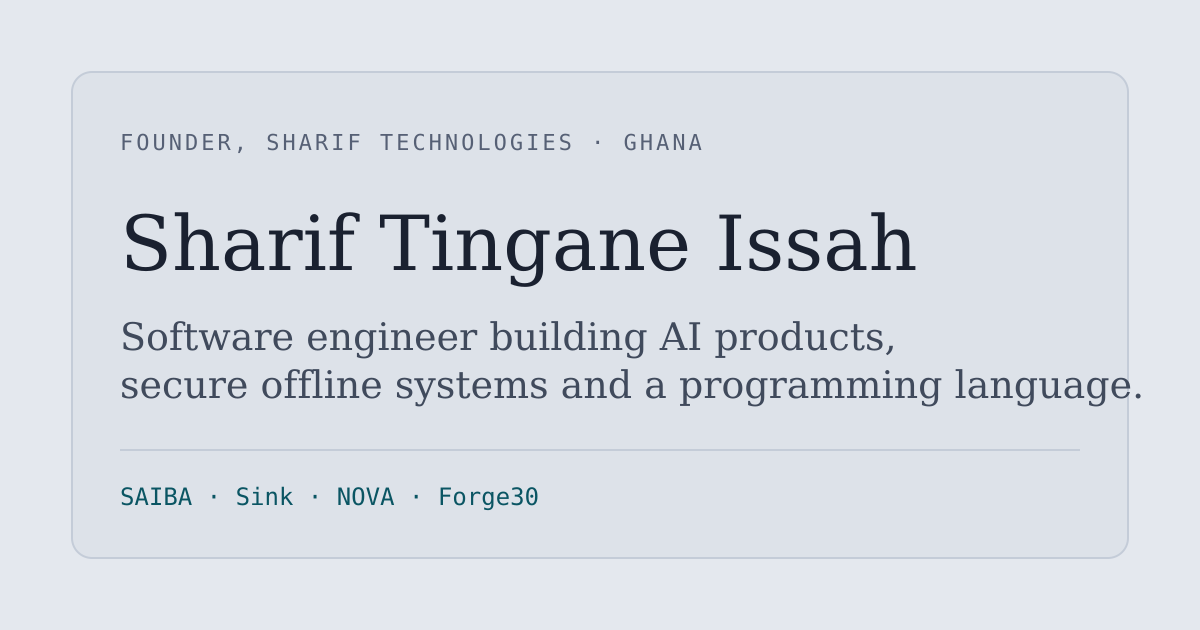
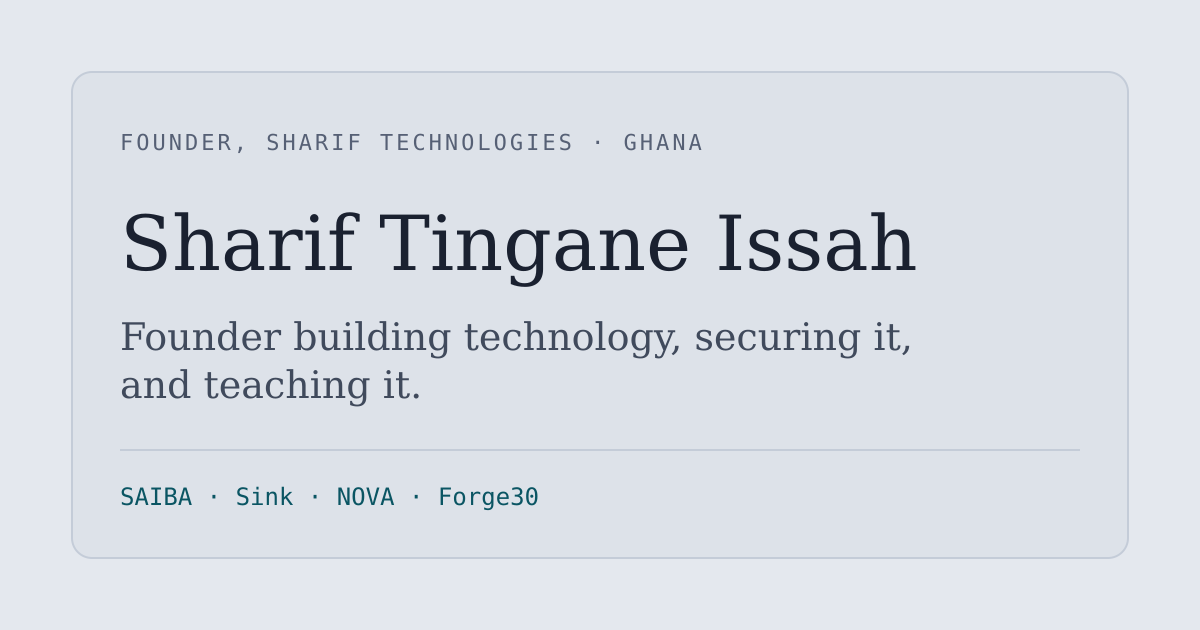
Broaden positioning, switch primary email, add public profiles and profile editor (#3)
- Primary email is now sharifissah74@gmail.com; the previous
  hello@shariftechnologies.online stays as a second "Company email" contact
- Headline, role, title, meta description, JSON-LD and OG image no longer
  describe a software engineer only (founder across building, securing, teaching)
- Links gain a group: Contact or Public profile. Public profiles (GitHub, npm,
  company site by default; LinkedIn, Facebook, ORCID etc. addable) render in the
  Public record section and feed JSON-LD sameAs
- New /admin/profile edits role, location, headline (*emphasis*), intro, about
  text, service tags and the search description

Claude-Session: https://claude.ai/code/session_01Kj2QFBUt7Gu1u5Y3ufFpzG

Changed region(s): [[0.0925, 0.5127, 0.9558, 0.6333]]

diff --git a/src/server/profile.ts b/src/server/profile.ts
@@ -1,0 +1,46 @@
+import { SITE } from '../data/site';
+import { getStore } from './store';
+
+export interface Profile {
+  role: string;
+  location: string;
+  headline: string; // *text* is shown in italic accent
+  lede: string;
+  description: string; // meta description / search snippet
+  about: string; // paragraphs separated by a blank line
+  services: string[];
+}
+
+export const DEFAULT_PROFILE: Profile = {
+  role: SITE.role,
+  location: SITE.location,
+  headline: 'I build *technology*, secure it, and teach it.',
+  lede: 'Founder of Sharif Technologies, based in Ghana. I build AI products, encrypted offline messaging and a programming language, run a developer programme, and write a technical book. Each is documented with what works, what does not, and how it was tested.',
+  description: SITE.description,
+  about:
+    'Sharif Tingane Issah is the founder of Sharif Technologies, working from Wenchi in Ghana’s Bono Region and with clients remotely.\n\nThe company does software development, cybersecurity and IT training, with cloud setup and network support on request. The products on this page are the company’s own, and the same process applies to client work.',
+  services: ['Software development', 'Cybersecurity', 'IT training', 'Cloud & network'],
+};
+
+export async function getProfile(): Promise<Profile> {
+  try {
+    const [raw] = (await getStore().run([['GET', 'profile']])) as (string | null)[];
+    return raw ? { ...DEFAULT_PROFILE, ...JSON.parse(raw) } : DEFAULT_PROFILE;
+  } catch {
+    return DEFAULT_PROFILE;
+  }
+}
+export const saveProfile = (p: Profile) => getStore().run([['SET', 'profile', JSON.stringify(p)]]);
+
+export function profileFromForm(f: FormData): Profile | string {
+  const g = (k: string) => String(f.get(k) ?? '').replace(/\r/g, '').trim();
+  const p: Profile = {
+    role: g('role').slice(0, 100), location: g('location').slice(0, 100), headline: g('headline').slice(0, 160),
+    lede: g('lede').slice(0, 600), description: g('description').slice(0, 220), about: g('about').slice(0, 2500),
+    services: g('services').split(',').map((s) => s.trim().slice(0, 40)).filter(Boolean).slice(0, 12),
+  };
+  if (!p.role || !p.headline || !p.lede) return 'Role, headline and intro are required.';
+  if ((p.headline.match(/\*/g)?.length ?? 0) % 2) return 'Headline: close every * (use *word* for the highlighted part).';
+  if (!p.description) return 'Add a search description.';
+  return p;
+}

diff --git a/src/server/links.ts b/src/server/links.ts
@@ -4,15 +4,23 @@ import { ICONS, guessIcon } from '../data/icons';
 import { getStore } from './store';
 
 export type LinkIcon = { kind: 'preset'; name: string } | { kind: 'svg'; svg: string } | { kind: 'img'; src: string };
-export interface LinkItem { id: string; label: string; url: string; icon: LinkIcon; visible: boolean }
+export type LinkGroup = 'contact' | 'profile';
+export const GROUPS: { v: LinkGroup; label: string }[] = [
+  { v: 'contact', label: 'Contact (Contact section)' },
+  { v: 'profile', label: 'Public profile (Public record section)' },
+];
+export interface LinkItem { id: string; label: string; url: string; icon: LinkIcon; visible: boolean; group?: LinkGroup }
+export const groupOf = (l: LinkItem): LinkGroup => (l.group === 'profile' ? 'profile' : 'contact');
 
 export const MAX_LINKS = 40;
 
 export const DEFAULT_LINKS: LinkItem[] = [
-  { id: 'email', label: 'Email', url: `mailto:${SITE.email}`, icon: { kind: 'preset', name: 'mail' }, visible: true },
-  { id: 'whatsapp', label: 'WhatsApp', url: SITE.whatsapp.href, icon: { kind: 'preset', name: 'whatsapp' }, visible: true },
-  { id: 'github', label: 'GitHub', url: SITE.github, icon: { kind: 'preset', name: 'github' }, visible: true },
-  { id: 'company', label: 'Sharif Technologies', url: SITE.company.url, icon: { kind: 'preset', name: 'globe' }, visible: true },
+  { id: 'email', label: 'Email', url: `mailto:${SITE.email}`, icon: { kind: 'preset', name: 'mail' }, visible: true, group: 'contact' },
+  { id: 'cmail', label: 'Company email', url: `mailto:${SITE.companyEmail}`, icon: { kind: 'preset', name: 'mail' }, visible: true, group: 'contact' },
+  { id: 'whatsapp', label: 'WhatsApp', url: SITE.whatsapp.href, icon: { kind: 'preset', name: 'whatsapp' }, visible: true, group: 'contact' },
+  { id: 'github', label: 'GitHub', url: SITE.github, icon: { kind: 'preset', name: 'github' }, visible: true, group: 'profile' },
+  { id: 'company', label: 'Sharif Technologies', url: SITE.company.url, icon: { kind: 'preset', name: 'globe' }, visible: true, group: 'profile' },
+  { id: 'npm', label: 'npm', url: 'https://www.npmjs.com/~sharif-technologies', icon: { kind: 'preset', name: 'npm' }, visible: true, group: 'profile' },
 ];
 
 export async function getLinks(): Promise<LinkItem[]> {

diff --git a/src/data/site.ts b/src/data/site.ts
@@ -2,14 +2,15 @@ export const SITE = {
   url: 'https://portfolio.shariftechnologies.online',
   name: 'Sharif Tingane Issah',
   short: 'Sharif T. Issah',
-  role: 'Software engineer · Founder, Sharif Technologies',
-  title: 'Sharif Tingane Issah — AI systems, secure offline software, language tooling',
+  role: 'Founder, Sharif Technologies',
+  title: 'Sharif Tingane Issah — Founder, Sharif Technologies',
   description:
-    'Software engineer and founder of Sharif Technologies in Ghana. Builds AI business platforms (SAIBA), end-to-end encrypted offline messaging (Sink) and a programming language (NOVA).',
+    'Founder of Sharif Technologies in Ghana. Builds AI products, secure offline messaging and a programming language, runs a developer programme, and is writing a technical book.',
   location: 'Wenchi, Bono Region, Ghana',
   company: { name: 'Sharif Technologies', url: 'https://www.shariftechnologies.online' },
   github: 'https://github.com/Sharifwa123',
-  email: 'hello@shariftechnologies.online',
+  email: 'sharifissah74@gmail.com',
+  companyEmail: 'hello@shariftechnologies.online',
   whatsapp: { label: '+233 53 702 4244', href: 'https://wa.me/233537024244' },
 } as const;
 

diff --git a/src/styles/global.css b/src/styles/global.css
@@ -444,3 +444,6 @@ dl, dd { margin: 0; }
 .chk input { width: 1.1rem; height: 1.1rem; accent-color: var(--accent); }
 .field select, .lrow select { width: 100%; padding: 0.7rem 0.9rem; border: 0; border-radius: var(--r-2); background: var(--bg); box-shadow: var(--inset-1); color: var(--ink); font: 400 var(--t-sm) var(--sans); }
 .field textarea { resize: vertical; }
+
+.contact--grid { max-width: none; }
+@media (min-width: 48rem) { .contact--grid { grid-template-columns: repeat(2, 1fr); } }
